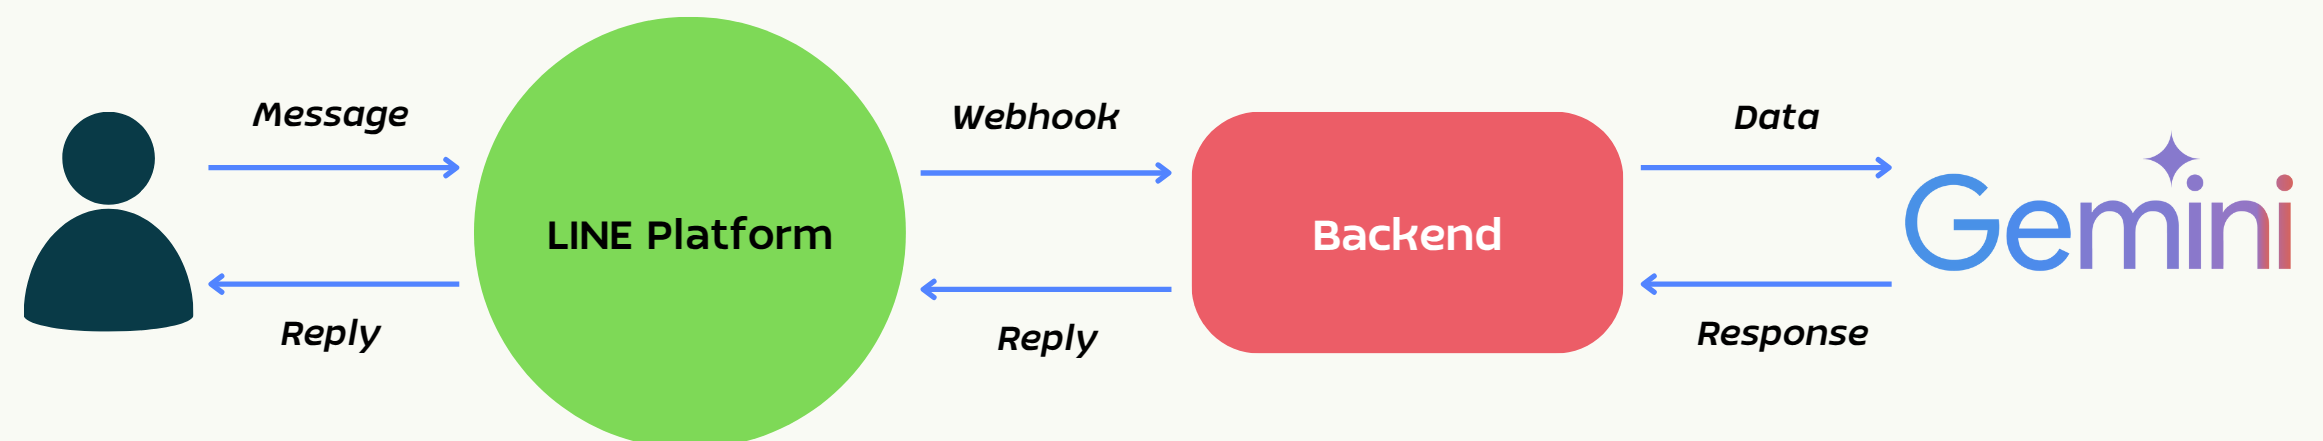
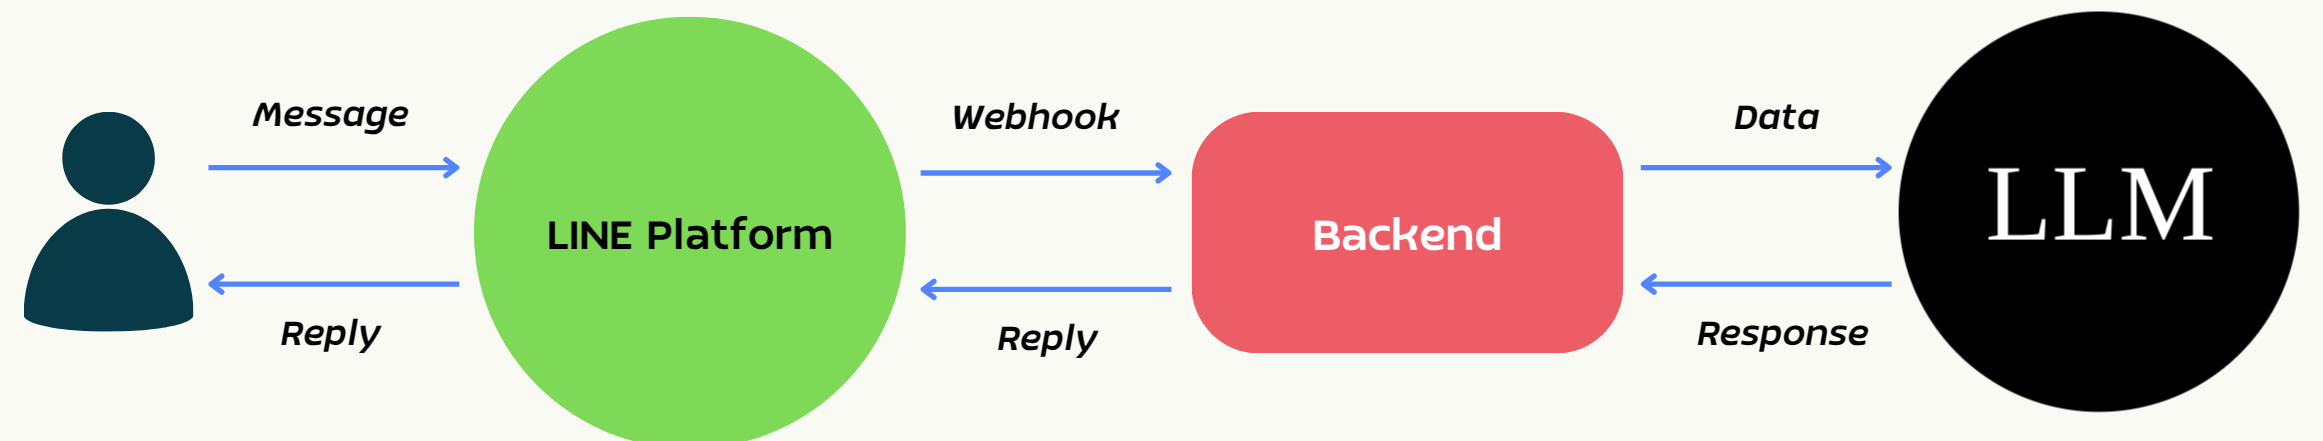
feat: 🎸 Tech Test for Internship 2026's intruction

Changed region(s): [[0.8059, 0.0295, 0.9918, 0.9433]]

diff --git a/README.md b/README.md
@@ -1,32 +1,83 @@
-# Technical Test for Internship Program 2025  
-Please follow the instructions below to complete the test.  
-
+# Technical Test for Internship Program — LINE RAG Chatbot
+> Please follow the instructions below to complete the test.
+---
 ### **Task Overview**  
-Develop a **Generative AI Chatbot** that integrates with **LINE** and utilizes **Google Gemini API** for response generation. Implement **Retrieval-Augmented Generation (RAG)** to enhance responses based on uploaded text documents.
+Develop a **Generative AI Chatbot** that integrates with **LINE** and utilizes **LLM API** for response generation. Implement **Retrieval-Augmented Generation (RAG)** to enhance responses based on uploaded text documents.
 
 <p align="left">
   <img src="diagram.png" width="640"/>
 </p>
 
-### **Instructions**  
-1. **Develop the chatbot backend using FastAPI**  
-2. **Connect the chatbot to LINE Messaging API** for real-time conversations
-3. **Use Google Gemini API for response generation**  
-4. **Implement Retrieval-Augmented Generation (RAG):**  
-   - Retrieve relevant snippets from uploaded text files  
-   - Use in-memory search (TF-IDF, BM25, or simple embedding-based retrieval) 
-5. **Create a backend API to upload and manage text documents (.txt only)**  
-   - Provide endpoint to upload new text files for RAG 
-   - Store files in memory or temporary storage (no database)
-   - Provide endpoints to GET and PUT prompt data
-6. **Deploy the chatbot to cloud service**  
-7. **Push the completed project to your public GitHub repository** and provide the link in the answer box  
 
-### **Extra score** 
-1. Using Mongo database to keep chatlog
-2. Implement Chat history
+## Instructions
 
-### Evaluation Criteria 
-1. **Code Quality** – Well-structured, maintainable, and documented
-2. **Correct response** – Bot answer with correct information
-3. **User Experience** – The chatbot provides clear and structured responses
+### 1. Backend
+- Develop the chatbot backend using **FastAPI**
+
+### 2. LINE OA Integration
+- Connect the chatbot to **LINE Messaging API**
+- Handle incoming messages via Webhook and reply in real time
+- You need to find the way to connect your Backend with Line OA **(Trust me it's not hard :))**
+
+### 3. Language Model
+- Use any LLM API of your choice.
+- The model must generate responses in Thai or English depending on what the user writes.
+
+### 4. Document Upload & Storage
+- Provide an API endpoint to **upload documents** 
+- Supported file types: **`.pdf` and `.txt`**
+- Store uploaded files in **memory or temporary storage** — `no database required`
+
+### 5. Retrieval-Augmented Generation (RAG)
+- Implement a RAG pipeline:
+  - When a user sends a message, retrieve relevant text chunks from uploaded documents
+- Use **in-memory search** or **Vector-Database**
+
+### 6. Code & Repository
+1. Push the completed project to a **public GitHub repository** (No need to push `ENV`)
+2. Include a clear **`README.md`** covering:
+   - First Paragraph contain with FULLNAME + INTERNSHIP YEAR eg. **JHON DOE 1975**
+   - How to install dependencies
+   - How to set up environment variables
+   - How to run the project
+   - List of all API endpoints
+
+---
+
+## Extra Score
+
+Complete any of the following to earn additional points. Each item is independent.
+
+### Extra 1 — Vector Database
+- Replace in-memory keyword search with a vector databas
+- Use embedding models to encode documents and retrieve by semantic similarity
+
+### Extra 2 — Additional File Types for Uploading and Retrieval
+- Support uploading **CSV or Excel files**
+- Support uploading **images** 
+
+### Extra 3 — Chat History
+- Track conversation history per user
+- Pass previous messages as context to the LLM so the bot can understand follow-up questions
+
+---
+
+## Evaluation Criteria
+| Criteria | Score | Description |
+|---|---|---|
+| RAG Pipeline | 40 pts | Retrieval is relevant and context is properly injected into the prompt |
+| Code Quality | 30 pts | Well-structured, readable, documented code and clear README |
+| Correct Response | 20 pts | Bot answers accurately using content from uploaded documents |
+| LINE Integration | 10 pts | Webhook works end-to-end; messages received and replied correctly |
+
+## Extra Evalutation Critieria
+| Criteria | Score | Description |
+|---|---|---|
+| Vector DB | + pts | Semantic retrieval implemented with a vector database |
+| More File Types | + pts | CSV, Excel, or image files parsed and indexed for RAG |
+| Chat History | + pts | Conversation context passed to LLM; bot handles follow-ups correctly |
+
+---
+No things are perfect we just want to know you. `Good Luck !!`
+
+`Authors by JATURAWICH and NIPITPON`
